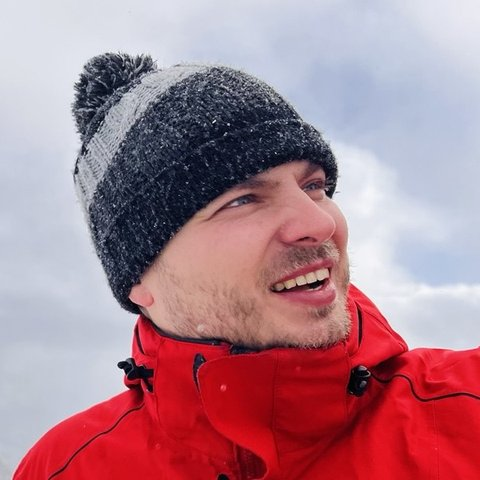
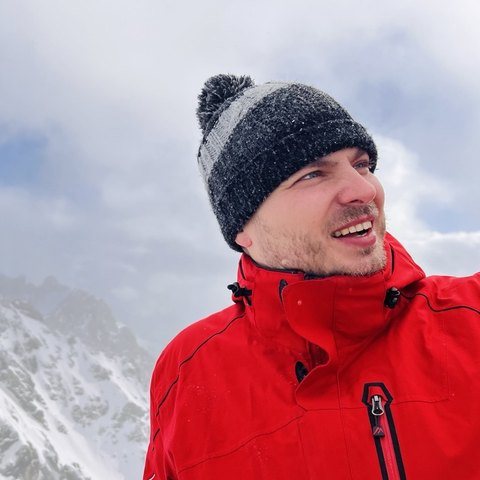
Wider portrait crop; home-institution talks not counted or listed on the CV

diff --git a/pipeline/build.py b/pipeline/build.py
@@ -351,7 +351,7 @@ def compute_stats(papers, talks, teaching, software, github):
         "h_index": h_index(p["citations"] for p in inspire),
         "citations_main": sum(p["citations"] or 0 for p in curated),
         "h_index_main": h_index(p["citations"] for p in curated),
-        "invited_talks": sum(1 for t in talks["talks"] if t["kind"] in ("invited", "seminar")),
+        "invited_talks": sum(1 for t in talks["talks"] if t["kind"] in ("invited", "seminar") and not t.get("home")),
         "contributed_talks": sum(1 for t in talks["talks"] if t["kind"] in ("contributed", "poster")),
         "software": len(software),
         "stars": sum((github.get(s.get("repo")) or {}).get("stargazers_count") or 0 for s in software),
